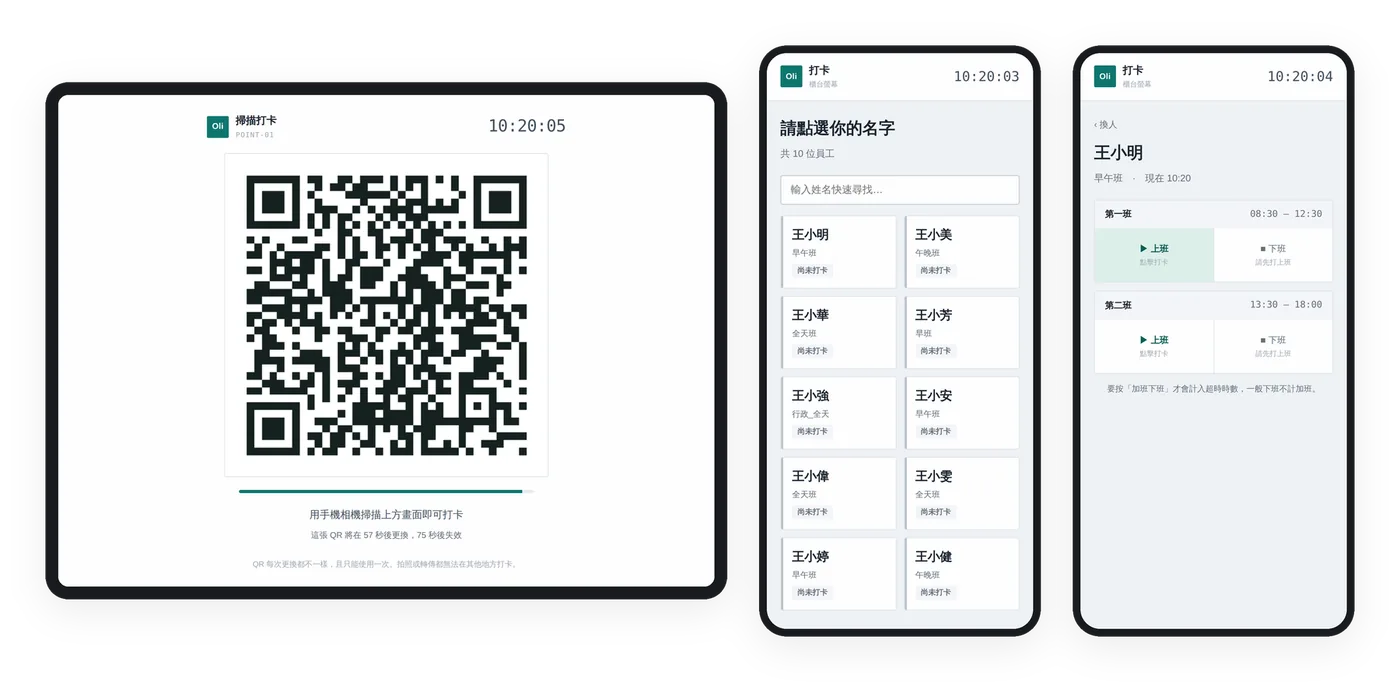
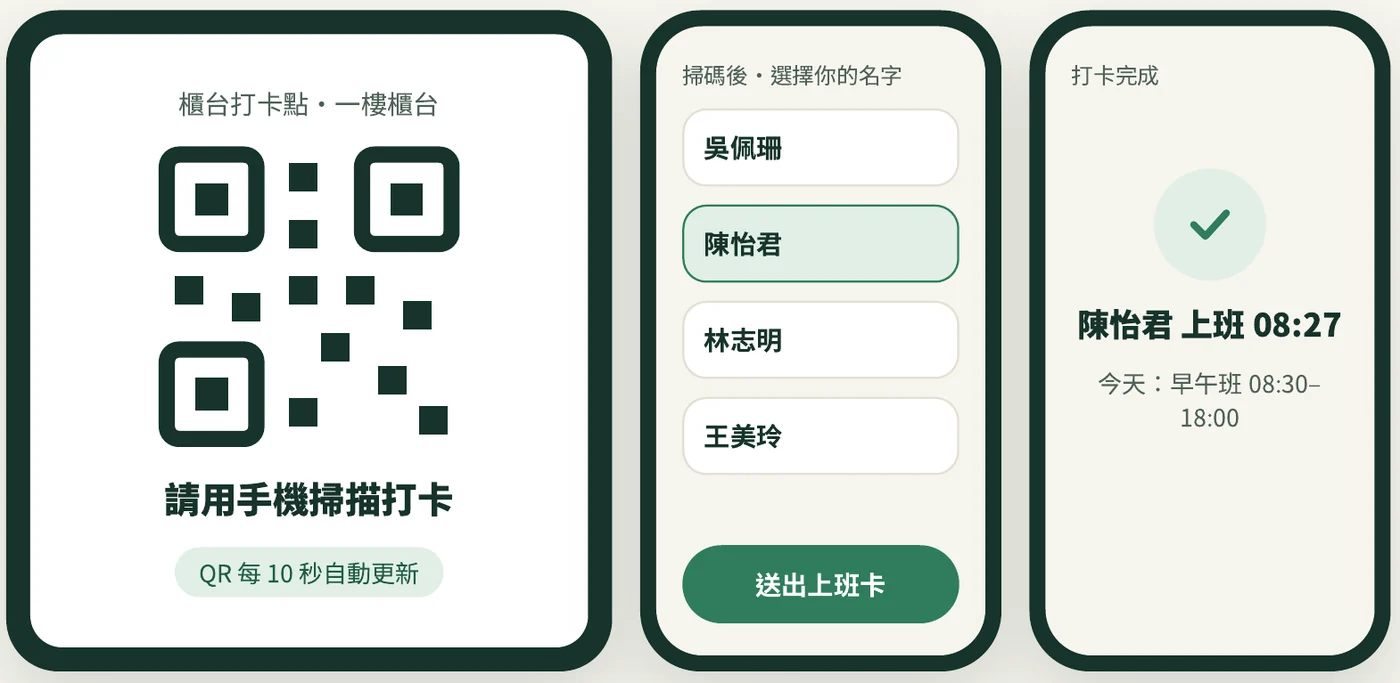
考勤頁改版對齊新介面：總覽、QR 打卡（每 10 秒）、請假加班異常、三診週表、員工手機；月結三步；截圖全部換成新版畫面；首頁相關文案同步
Claude-Session: https://claude.ai/code/session_01JJ9BNjGdWpK4NeKE6jUSjR

diff --git a/attendance.html b/attendance.html
@@ -3,14 +3,14 @@
 <head>
 <meta charset="utf-8">
 <meta name="viewport" content="width=device-width, initial-scale=1">
-<title>Oli考勤管理系統｜診所排班、打卡、請假、薪資一套搞定｜Olimedi 奧里</title>
-<meta name="description" content="專為醫療院所設計的考勤管理系統。早午晚診排班、手機 QR 打卡、請假加班、每月薪資，在同一個系統完成。加 LINE 預約免費展示。">
+<title>Oli考勤管理系統｜診所三診排班、QR 打卡、請假加班簽核、自動計薪｜Olimedi 奧里</title>
+<meta name="description" content="醫療院所雲端考勤系統：早午晚三診一週一張表排班、櫃台 QR 打卡免設備、請假加班線上簽核、異常集中處理，月底三步完成月結，薪資單每一行看得到算式。加 LINE 預約免費展示。">
 <link rel="canonical" href="https://olimedi.com/attendance.html">
 <link rel="icon" href="/favicon.svg" type="image/svg+xml">
 <meta property="og:type" content="website">
 <meta property="og:site_name" content="Olimedi 奧里醫療資訊">
-<meta property="og:title" content="Oli考勤管理系統｜診所排班、打卡、請假、薪資一套搞定｜Olimedi 奧里">
-<meta property="og:description" content="專為醫療院所設計的考勤管理系統。早午晚診排班、手機 QR 打卡、請假加班、每月薪資，在同一個系統完成。加 LINE 預約免費展示。">
+<meta property="og:title" content="Oli考勤管理系統｜診所三診排班、QR 打卡、請假加班簽核、自動計薪｜Olimedi 奧里">
+<meta property="og:description" content="醫療院所雲端考勤系統：早午晚三診一週一張表排班、櫃台 QR 打卡免設備、請假加班線上簽核、異常集中處理，月底三步完成月結，薪資單每一行看得到算式。加 LINE 預約免費展示。">
 <meta property="og:url" content="https://olimedi.com/attendance.html">
 <meta property="og:image" content="https://olimedi.com/img/og.jpg">
 <meta property="og:image:width" content="1200">
@@ -22,7 +22,7 @@
 <link rel="preconnect" href="https://fonts.gstatic.com" crossorigin>
 <link href="https://fonts.googleapis.com/css2?family=Plus+Jakarta+Sans:wght@700;800&family=Noto+Sans+TC:wght@400;500;700;900&display=swap" rel="stylesheet">
 <link rel="stylesheet" href="/style.css?v=99143536">
-<script type="application/ld+json">{"@context": "https://schema.org", "@type": "SoftwareApplication", "name": "Oli 考勤管理系統", "applicationCategory": "BusinessApplication", "operatingSystem": "Web", "description": "專為醫療院所設計的考勤管理系統。早午晚診排班、手機 QR 打卡、請假加班、每月薪資，在同一個系統完成。加 LINE 預約免費展示。", "url": "https://olimedi.com/attendance.html", "image": "https://olimedi.com/img/att-hero.webp", "publisher": {"@type": "Organization", "name": "Olimedi 奧里醫療資訊"}}</script>
+<script type="application/ld+json">{"@context": "https://schema.org", "@type": "SoftwareApplication", "name": "Oli 考勤管理系統", "applicationCategory": "BusinessApplication", "operatingSystem": "Web", "description": "醫療院所雲端考勤系統：早午晚三診一週一張表排班、櫃台 QR 打卡免設備、請假加班線上簽核、異常集中處理，月底三步完成月結，薪資單每一行看得到算式。加 LINE 預約免費展示。", "url": "https://olimedi.com/attendance.html", "image": "https://olimedi.com/img/att-hero.webp", "publisher": {"@type": "Organization", "name": "Olimedi 奧里醫療資訊"}}</script>
 <script type="application/ld+json">{"@context": "https://schema.org", "@type": "BreadcrumbList", "itemListElement": [{"@type": "ListItem", "position": 1, "name": "首頁", "item": "https://olimedi.com/"}, {"@type": "ListItem", "position": 2, "name": "Oli 考勤管理系統", "item": "https://olimedi.com/attendance.html"}]}</script>
 </head>
 <body>
@@ -37,18 +37,18 @@
 <div>
 <p class="crumb"><a href="/">首頁</a> / Oli 考勤管理系統</p>
 <p class="eyebrow">OLI 考勤管理系統</p>
-<h1><span style="white-space:nowrap">排班、打卡、薪資，</span><br><em>一套搞定</em>。</h1>
-<p class="lead">專為診所設計。從早午晚診排班、手機打卡、請假加班，到每月薪資，月底結算不用再對三份表。</p>
+<h1><span style="white-space:nowrap">月底結薪，</span><br><em>不再加班</em>。</h1>
+<p class="lead">早午晚三診排班、櫃台 QR 打卡、請假加班線上簽核，月底依診所設定自動算好薪資，每一行都看得到怎麼算。</p>
 <div class="cta-row"><a class="btn btn-line" href="https://line.me/R/ti/p/@336appfx" target="_blank" rel="noopener"><img class="av" src="/img/oliver.svg" alt="" width="32" height="32">問 Oliver・預約免費展示</a><a class="btn btn-ghost" href="#day">看它的一天 ↓</a></div>
-<div class="trust"><span>不用買打卡鐘</span><span>不用安裝 App</span><span>每間診所獨立資料庫</span></div>
+<div class="trust"><span>不用買打卡鐘</span><span>電腦、平板、手機免安裝</span><span>一般工時與四週變形工時</span></div>
 </div>
-<div class="day"><div class="sticker s2">今天 0 人忘記打卡</div><a class="dcard" href="#day"><div class="t">08:30<small>開診前</small></div><div><h4>12 位員工全部掃碼到班</h4><p>QR 每 60 秒換一張，拍照轉傳沒用。</p></div><div class="thumb"><img src="/img/att-qr.webp" alt="" loading="lazy"></div></a><a class="dcard" href="#day"><div class="t">10:15<small>診中</small></div><div><h4>小美申請下週三調班</h4><p>主管手機一鍵核准，班表同步更新。</p></div><div class="thumb"><img src="/img/att-phones.webp" alt="" loading="lazy"></div></a><a class="dcard" href="#day"><div class="t">20:00<small>排班日</small></div><div><h4>12 月班表草稿已產生</h4><p>每診人數不足的格子標紅，微調就好。</p></div><div class="thumb"><img src="/img/att-auto.webp" alt="" loading="lazy"></div></a><a class="dcard done" href="#day"><div class="t">月底<small>結算日</small></div><div><h4>薪資一鍵算好</h4><p>加班、請假、勞健保自動帶入。</p></div><div class="thumb"><img src="/img/att-pay.webp" alt="" loading="lazy"></div></a><img class="oliver-peek" src="/img/oliver/oliver-tablet.svg" alt="Oliver" width="170" height="263"><div class="sticker s1">✓ 班表已發佈</div></div>
+<div class="day"><div class="sticker s2">今天有 3 件事等你處理</div><a class="dcard" href="#day"><div class="t">08:27<small>上班</small></div><div><h4>陳怡君掃碼打卡</h4><p>櫃台 QR 每 10 秒更新，拍照轉傳沒用。</p></div><div class="thumb"><img src="/img/att-qr.webp" alt="" loading="lazy"></div></a><a class="dcard" href="#day"><div class="t">10:15<small>診中</small></div><div><h4>特休申請待核准</h4><p>核准前先看當天早診人力與特休餘額。</p></div><div class="thumb"><img src="/img/att-approve.webp" alt="" loading="lazy"></div></a><a class="dcard" href="#day"><div class="t">18:30<small>下診</small></div><div><h4>林志明缺下班卡</h4><p>待辦旁一鍵補 18:00 下班卡。</p></div><div class="thumb"><img src="/img/att-dash.webp" alt="" loading="lazy"></div></a><a class="dcard done" href="#day"><div class="t">月底<small>結算日</small></div><div><h4>11 月薪資已鎖定</h4><p>統計、檢查、鎖定三步完成。</p></div><div class="thumb"><img src="/img/att-pay.webp" alt="" loading="lazy"></div></a><img class="oliver-peek" src="/img/oliver/oliver-tablet.svg" alt="Oliver" width="170" height="263"><div class="sticker s1">✓ 11 月已鎖定發薪</div></div>
 </div></section>
 <section id="day"><div class="wrap">
 <div class="center" style="margin-bottom:72px"><p class="eyebrow">A DAY WITH OLI </p><h2>Oli 考勤管理系統的一天</h2><p class="sub" style="margin:0 auto">畫面為系統示意，診所名稱與資料皆為範例。實際功能以展示及合約內容為準。</p></div>
-<div class="tline"><div class="stop"><div class="txt"><span class="pm a">智能排班</span><h3><span class="when">晚上 20:00</span>設好人力需求，整月班表自動排</h3><p>設定每一診最少需要幾個人，系統依員工可做的崗位、休診日和已核准的請假，自動排出整個月的班表，再微調就好。</p><ul class=check><li>早午晚診分開排</li><li>工時規定排班當下就提醒</li><li>四週變形工時也能排</li></ul></div><div class="clock">20:00<small>排班日</small></div><div class="pic"><img src="/img/att-auto.webp" alt="設好人力需求，整月班表自動排" loading="lazy"></div></div><div class="stop alt"><div class="txt"><span class="pm a">手機打卡</span><h3><span class="when">早上 08:30</span>手機掃 QR 打卡，拍照轉傳難代打</h3><p>櫃台平板顯示打卡 QR，每 60 秒換一張。員工用自己的手機掃描、點名字就完成。不用買打卡鐘，也不用裝 App。</p><ul class=check><li>QR 定時更換、單次有效</li><li>可開啟自拍存證</li><li>遲到、忘打卡自動列成待處理</li></ul></div><div class="clock">08:30<small>開診前</small></div><div class="pic"><img src="/img/att-qr.webp" alt="手機掃 QR 打卡，拍照轉傳難代打" loading="lazy"></div></div><div class="stop"><div class="txt"><span class="pm a">員工自助</span><h3><span class="when">隨時</span>員工用手機看自己的班表與薪資單</h3><p>員工登入後只看得到自己的資料：本月班表、出勤紀錄、薪資單，薪資單可以線上簽收。主管不用再一個一個回答「我這個月排幾天？」</p><ul class=check><li>手機申請請假、調班</li><li>特休餘額自己看</li><li>薪資單線上簽收</li></ul></div><div class="clock">隨時<small>員工手機</small></div><div class="pic phone"><img src="/img/att-phones.webp" alt="員工用手機看自己的班表與薪資單" loading="lazy"></div></div></div>
+<div class="tline"><div class="stop"><div class="txt"><span class="pm a">總覽</span><h3><span class="when">早上 08:00</span>打開就知道今天要做什麼</h3><p>總覽用一句話告訴你今天有幾件事；早、午、晚診各排到幾人、最低要幾人一眼看到。補卡、核准請假、核定加班，按鈕就在待辦旁邊。</p><ul class=check><li>橘色＝需要你處理，綠色＝已完成</li><li>三診人力卡，人手不足立刻看到</li><li>月結進度五步：排班→打卡→異常處理→統計→鎖定發薪</li></ul></div><div class="clock">08:00<small>開診前</small></div><div class="pic"><img src="/img/att-dash.webp" alt="打開就知道今天要做什麼" loading="lazy"></div></div><div class="stop alt"><div class="txt"><span class="pm a">QR 打卡</span><h3><span class="when">早上 08:27</span>不用買打卡鐘，員工用手機掃就好</h3><p>櫃台平板打開打卡點網址就顯示動態 QR，員工用自己的手機掃碼、選名字、送出。QR 預設每 10 秒換一張，拍照傳給別人也沒用。</p><ul class=check><li>更新頻率可調，也可列印固定 QR 貼牆上</li><li>需要時打開自拍，打卡同時留照片</li><li>多個打卡點各自啟用、停用</li></ul></div><div class="clock">08:27<small>上班</small></div><div class="pic"><img src="/img/att-qr.webp" alt="不用買打卡鐘，員工用手機掃就好" loading="lazy"></div></div><div class="stop"><div class="txt"><span class="pm a">請假、加班與異常</span><h3><span class="when">中午 12:30</span>該簽的、該補的，按一下就處理完</h3><p>員工用手機請假、預排休，核准前就看到當天人力與特休餘額。缺卡、早退、例假出勤自動列出，按鈕直接帶建議時間。</p><ul class=check><li>加班排定與實際並排，可選加班費或換補休</li><li>異常依種類分組，一鍵補卡或核准</li><li>一次核定一個人的整月加班</li></ul></div><div class="clock">12:30<small>午休</small></div><div class="pic"><img src="/img/att-approve.webp" alt="該簽的、該補的，按一下就處理完" loading="lazy"></div></div><div class="stop alt"><div class="txt"><span class="pm a">三診排班</span><h3><span class="when">晚上 20:00</span>早午晚三診，一週一張表排完</h3><p>列是員工、欄是週一到週日，每格分早午晚三診，崗位用色條標示；最下面一列直接告訴你每診排到幾人、最低要幾人。</p><ul class=check><li>點格子就改，不用開彈窗</li><li>智能排班，排好一週可複製到整個月</li><li>四週變形工時週期超過 160 小時會提醒</li></ul></div><div class="clock">20:00<small>排班日</small></div><div class="pic"><img src="/img/att-auto.webp" alt="早午晚三診，一週一張表排完" loading="lazy"></div></div><div class="stop"><div class="txt"><span class="pm a">員工手機</span><h3><span class="when">隨時</span>員工自己查，行政少回答一半問題</h3><p>員工用手機看班表、出勤與薪資單，請假也自己申請。特休通知書、加退保申報、離職結算預覽、出勤統計 CSV 也幫你備好。</p><ul class=check><li>第一次登入要求更換密碼</li><li>依角色開放功能，保留操作紀錄</li><li>一般工時與四週變形工時都支援</li></ul></div><div class="clock">隨時<small>員工自查</small></div><div class="pic"><img src="/img/att-phones.webp" alt="員工自己查，行政少回答一半問題" loading="lazy"></div></div></div>
 </div></section>
-<section style="padding-top:0"><div class="wrap"><div class="month"><div><span class="pm">月底 · 結算日</span><h2>每月薪資自動試算，<br>計算過程看得到</h2><p>加班、請假、勞健保、勞退提繳依診所設定自動試算，點開每個人就看到計算式，確認後再結算。工資清冊、轉帳清冊一鍵匯出。</p><div class="ticks"><div><b>1 鍵</b>整月薪資結算</div><div><b>可追</b>每一筆計算式</div><div><b>Excel</b>工資與轉帳清冊</div><div><b>先核</b>加班核定再計薪</div></div></div><img src="/img/att-pay.webp" alt="每月薪資自動試算，<br>計算過程看得到" loading="lazy"></div></div></section>
+<section style="padding-top:0"><div class="wrap"><div class="month"><div><span class="pm">月底 · 結算日</span><h2>三步完成月結，<br>每一塊錢都看得懂</h2><p>系統依打卡、請假、加班自動算好薪資；有異常未處理會提醒你，鎖定後不能再改，解鎖要寫原因。員工問「這筆怎麼算的」，點開那一行就有算式。</p><div class="ticks"><div><b>3 步</b>統計 → 檢查 → 鎖定</div><div><b>算式</b>薪資單每一行點開看</div><div><b>折算</b>月中到職依在職天數</div><div><b>自訂</b>交通津貼等薪項</div></div></div><img src="/img/att-pay.webp" alt="三步完成月結，<br>每一塊錢都看得懂" loading="lazy"></div></div></section>
 <section class="alt" id="how"><div class="wrap center">
 <p class="eyebrow">HOW IT WORKS</p>
 <h2>三步驟，看看 Oli 適不適合你的診所</h2>

diff --git a/index.html b/index.html
@@ -48,9 +48,9 @@
 
 <section id="day" style="padding-top:40px"><div class="wrap">
 <div class="center" style="margin-bottom:72px"><p class="eyebrow">A DAY AT THE CLINIC</p><h2>跟著診所的一天，看 Oli 在哪裡幫上忙</h2><p class="sub" style="margin:0 auto">每個時間點都是一件真的會發生的瑣事。畫面為系統示意，診所名稱與資料皆為範例。</p></div>
-<div class="tline"><div class="stop"><div class="txt"><span class="pm a">OLI 考勤管理系統</span><h3><span class="when">早上 08:30</span>打卡不用排隊，也不用打卡鐘</h3><p>櫃台平板顯示 QR，員工用自己的手機掃碼就到班。QR 定時更換，拍照轉傳也沒用。</p><ul class=check><li>出勤紀錄自動保存</li><li>遲到、忘打卡列成待處理清單</li><li>手機就能看自己的班表與時數</li></ul></div><div class="clock">08:30<small>開診前</small></div><div class="pic"><img src="/img/att-qr.webp" alt="打卡不用排隊，也不用打卡鐘" loading="lazy"></div></div><div class="stop alt"><div class="txt"><span class="pm b">OLI 庫存管理系統</span><h3><span class="when">中午 12:10</span>點貨 5 分鐘，效期自動盯</h3><p>依每日用量算安全庫存，低於安全線的排最前面；30 天內到期自動標色，先到期先用。</p><ul class=check><li>手機掃條碼入庫，不用一字一字打</li><li>ABC 分級，高價品項每週盤、低價每季盤</li><li>叫貨單依消耗量自動產生</li></ul></div><div class="clock">12:10<small>午休</small></div><div class="pic phone"><img src="/img/mat-mobile.webp" alt="點貨 5 分鐘，效期自動盯" loading="lazy"></div></div><div class="stop"><div class="txt"><span class="pm a">OLI 考勤管理系統</span><h3><span class="when">傍晚 18:40</span>下個月班表，一個晚上變十分鐘</h3><p>設好每診最少人數、每人工時上限與休假，系統先排出整月草稿；四週變形工時也能排。</p><ul class=check><li>每診人數不足自動標紅</li><li>員工手機看班表、申請調班</li><li>班表一發佈，大家同步</li></ul></div><div class="clock">18:40<small>晚診前</small></div><div class="pic"><img src="/img/att-auto.webp" alt="下個月班表，一個晚上變十分鐘" loading="lazy"></div></div></div>
+<div class="tline"><div class="stop"><div class="txt"><span class="pm a">OLI 考勤管理系統</span><h3><span class="when">早上 08:30</span>打卡不用排隊，也不用打卡鐘</h3><p>櫃台平板顯示 QR，員工用自己的手機掃碼就到班。QR 定時更換，拍照轉傳也沒用。</p><ul class=check><li>出勤紀錄自動保存</li><li>遲到、忘打卡列成待處理清單</li><li>手機就能看自己的班表與時數</li></ul></div><div class="clock">08:30<small>開診前</small></div><div class="pic"><img src="/img/att-qr.webp" alt="打卡不用排隊，也不用打卡鐘" loading="lazy"></div></div><div class="stop alt"><div class="txt"><span class="pm b">OLI 庫存管理系統</span><h3><span class="when">中午 12:10</span>點貨 5 分鐘，效期自動盯</h3><p>依每日用量算安全庫存，低於安全線的排最前面；30 天內到期自動標色，先到期先用。</p><ul class=check><li>手機掃條碼入庫，不用一字一字打</li><li>ABC 分級，高價品項每週盤、低價每季盤</li><li>叫貨單依消耗量自動產生</li></ul></div><div class="clock">12:10<small>午休</small></div><div class="pic phone"><img src="/img/mat-mobile.webp" alt="點貨 5 分鐘，效期自動盯" loading="lazy"></div></div><div class="stop"><div class="txt"><span class="pm a">OLI 考勤管理系統</span><h3><span class="when">傍晚 18:40</span>下個月班表，一個晚上變十分鐘</h3><p>設好每診最少人數、每人工時上限與休假，系統先排出整月草稿；四週變形工時也能排。</p><ul class=check><li>每診排到幾人、最低幾人一目了然</li><li>員工手機看班表、申請請假</li><li>班表一發佈，大家同步</li></ul></div><div class="clock">18:40<small>晚診前</small></div><div class="pic"><img src="/img/att-auto.webp" alt="下個月班表，一個晚上變十分鐘" loading="lazy"></div></div></div>
 </div></section>
-<section style="padding-top:0"><div class="wrap"><div class="month"><div><span class="pm">月底 · 結算日</span><h2>算薪水，<br>不用再熬到半夜</h2><p>出勤、請假、加班與津貼自動帶入；忘打卡與未核定加班先列成清單，處理完再結算。報表匯出 Excel，會計直接用。</p><div class="ticks"><div><b>1 鍵</b>整月薪資結算</div><div><b>Excel</b>出勤與薪資匯出</div><div><b>0 份</b>需要人工核對的表</div><div><b>每月</b>人事成本一眼看</div></div></div><img src="/img/att-pay.webp" alt="算薪水，<br>不用再熬到半夜" loading="lazy"></div></div></section>
+<section style="padding-top:0"><div class="wrap"><div class="month"><div><span class="pm">月底 · 結算日</span><h2>算薪水，<br>不用再熬到半夜</h2><p>出勤、請假、加班自動帶入；缺卡與未核定加班先列成清單，處理完再統計、檢查、鎖定。薪資單每一行都看得到怎麼算。</p><div class="ticks"><div><b>3 步</b>統計 → 檢查 → 鎖定</div><div><b>算式</b>薪資單每一行看得到</div><div><b>CSV</b>出勤統計一鍵下載</div><div><b>鎖定</b>解鎖要寫原因</div></div></div><img src="/img/att-pay.webp" alt="算薪水，<br>不用再熬到半夜" loading="lazy"></div></div></section>
 
 <section class="alt"><div class="wrap"><div class="svc-strip">
 <div><p class="eyebrow">CLINIC LAUNCH</p><h2 style="font-size:clamp(26px,3.2vw,36px)">要開新診所？<br>開業代辦從地點評估到健保特約一條線跑完</h2><p class="sub" style="margin-bottom:22px">你準備委託書與資料，公會送件、衛生局現勘、執照、憑證、統編、勞健保、醫療網到健保特約由我們跑，每週回報進度。人事與耗材制度可一起建好。</p><div class="cta-row"><a class="btn btn-ink" href="/services.html">看開業代辦服務</a><a class="btn btn-line" href="https://line.me/R/ti/p/@336appfx" target="_blank" rel="noopener"><img class="av" src="/img/oliver.svg" alt="" width="32" height="32">問 Oliver・索取報價</a></div></div>

diff --git a/_build/build.py b/_build/build.py
@@ -173,9 +173,9 @@ home=f'''
 <div class="center" style="margin-bottom:72px"><p class="eyebrow">A DAY AT THE CLINIC</p><h2>跟著診所的一天，看 Oli 在哪裡幫上忙</h2><p class="sub" style="margin:0 auto">每個時間點都是一件真的會發生的瑣事。畫面為系統示意，診所名稱與資料皆為範例。</p></div>
 {STOPS([("OLI 考勤管理系統","a","早上 08:30","開診前","打卡不用排隊，也不用打卡鐘","櫃台平板顯示 QR，員工用自己的手機掃碼就到班。QR 定時更換，拍照轉傳也沒用。",["出勤紀錄自動保存","遲到、忘打卡列成待處理清單","手機就能看自己的班表與時數"],"att-qr"),
 ("OLI 庫存管理系統","b","中午 12:10","午休","點貨 5 分鐘，效期自動盯","依每日用量算安全庫存，低於安全線的排最前面；30 天內到期自動標色，先到期先用。",["手機掃條碼入庫，不用一字一字打","ABC 分級，高價品項每週盤、低價每季盤","叫貨單依消耗量自動產生"],"phone:mat-mobile"),
-("OLI 考勤管理系統","a","傍晚 18:40","晚診前","下個月班表，一個晚上變十分鐘","設好每診最少人數、每人工時上限與休假，系統先排出整月草稿；四週變形工時也能排。",["每診人數不足自動標紅","員工手機看班表、申請調班","班表一發佈，大家同步"],"att-auto")])}
+("OLI 考勤管理系統","a","傍晚 18:40","晚診前","下個月班表，一個晚上變十分鐘","設好每診最少人數、每人工時上限與休假，系統先排出整月草稿；四週變形工時也能排。",["每診排到幾人、最低幾人一目了然","員工手機看班表、申請請假","班表一發佈，大家同步"],"att-auto")])}
 </div></section>
-{MONTH("月底 · 結算日","算薪水，<br>不用再熬到半夜","出勤、請假、加班與津貼自動帶入；忘打卡與未核定加班先列成清單，處理完再結算。報表匯出 Excel，會計直接用。",[("1 鍵","整月薪資結算"),("Excel","出勤與薪資匯出"),("0 份","需要人工核對的表"),("每月","人事成本一眼看")],"att-pay")}
+{MONTH("月底 · 結算日","算薪水，<br>不用再熬到半夜","出勤、請假、加班自動帶入；缺卡與未核定加班先列成清單，處理完再統計、檢查、鎖定。薪資單每一行都看得到怎麼算。",[("3 步","統計 → 檢查 → 鎖定"),("算式","薪資單每一行看得到"),("CSV","出勤統計一鍵下載"),("鎖定","解鎖要寫原因")],"att-pay")}
 
 <section class="alt"><div class="wrap"><div class="svc-strip">
 <div><p class="eyebrow">CLINIC LAUNCH</p><h2 style="font-size:clamp(26px,3.2vw,36px)">要開新診所？<br>開業代辦從地點評估到健保特約一條線跑完</h2><p class="sub" style="margin-bottom:22px">你準備委託書與資料，公會送件、衛生局現勘、執照、憑證、統編、勞健保、醫療網到健保特約由我們跑，每週回報進度。人事與耗材制度可一起建好。</p><div class="cta-row"><a class="btn btn-ink" href="services.html">看開業代辦服務</a>{cta("問 Oliver・索取報價")}</div></div>
@@ -221,19 +221,21 @@ def prod(fn,name,title,desc,eyebrow,h1,lead,hero_k,hero_alt,stops,month,trust,ot
     open(fn,"w").write(page(fn,title,desc,body,fn,[app,bc]))
 
 prod("attendance.html","考勤管理系統",
- "Oli考勤管理系統｜診所排班、打卡、請假、薪資一套搞定｜Olimedi 奧里",
- "專為醫療院所設計的考勤管理系統。早午晚診排班、手機 QR 打卡、請假加班、每月薪資，在同一個系統完成。加 LINE 預約免費展示。",
+ "Oli考勤管理系統｜診所三診排班、QR 打卡、請假加班簽核、自動計薪｜Olimedi 奧里",
+ "醫療院所雲端考勤系統：早午晚三診一週一張表排班、櫃台 QR 打卡免設備、請假加班線上簽核、異常集中處理，月底三步完成月結，薪資單每一行看得到算式。加 LINE 預約免費展示。",
  "OLI 考勤管理系統",
- "<span style=\"white-space:nowrap\">排班、打卡、薪資，</span><br><em>一套搞定</em>。",
- "專為診所設計。從早午晚診排班、手機打卡、請假加班，到每月薪資，月底結算不用再對三份表。",
- "att-hero","Oli 考勤管理系統的總覽畫面與員工手機上的我的班表",
- [("智能排班","a","晚上 20:00","排班日","設好人力需求，整月班表自動排","設定每一診最少需要幾個人，系統依員工可做的崗位、休診日和已核准的請假，自動排出整個月的班表，再微調就好。",["早午晚診分開排","工時規定排班當下就提醒","四週變形工時也能排"],"att-auto"),
-  ("手機打卡","a","早上 08:30","開診前","手機掃 QR 打卡，拍照轉傳難代打","櫃台平板顯示打卡 QR，每 60 秒換一張。員工用自己的手機掃描、點名字就完成。不用買打卡鐘，也不用裝 App。",["QR 定時更換、單次有效","可開啟自拍存證","遲到、忘打卡自動列成待處理"],"att-qr"),
-  ("員工自助","a","隨時","員工手機","員工用手機看自己的班表與薪資單","員工登入後只看得到自己的資料：本月班表、出勤紀錄、薪資單，薪資單可以線上簽收。主管不用再一個一個回答「我這個月排幾天？」",["手機申請請假、調班","特休餘額自己看","薪資單線上簽收"],"phone:att-phones")],
- ("月底 · 結算日","每月薪資自動試算，<br>計算過程看得到","加班、請假、勞健保、勞退提繳依診所設定自動試算，點開每個人就看到計算式，確認後再結算。工資清冊、轉帳清冊一鍵匯出。",[("1 鍵","整月薪資結算"),("可追","每一筆計算式"),("Excel","工資與轉帳清冊"),("先核","加班核定再計薪")],"att-pay"),
- ["不用買打卡鐘","不用安裝 App","每間診所獨立資料庫"],("庫存管理系統","materials.html"),
- [("08:30","開診前","12 位員工全部掃碼到班","QR 每 60 秒換一張，拍照轉傳沒用。","att-qr","#day",False),("10:15","診中","小美申請下週三調班","主管手機一鍵核准，班表同步更新。","att-phones","#day",False),("20:00","排班日","12 月班表草稿已產生","每診人數不足的格子標紅，微調就好。","att-auto","#day",False),("月底","結算日","薪資一鍵算好","加班、請假、勞健保自動帶入。","att-pay","#day",True)],
- ("今天 0 人忘記打卡","✓ 班表已發佈"),"a")
+ "<span style=\"white-space:nowrap\">月底結薪，</span><br><em>不再加班</em>。",
+ "早午晚三診排班、櫃台 QR 打卡、請假加班線上簽核，月底依診所設定自動算好薪資，每一行都看得到怎麼算。",
+ "att-hero","Oli 考勤管理系統的總覽畫面：今天有 2 件事等你處理、三診人力與月結進度，以及員工手機的我的今天",
+ [("總覽","a","早上 08:00","開診前","打開就知道今天要做什麼","總覽用一句話告訴你今天有幾件事；早、午、晚診各排到幾人、最低要幾人一眼看到。補卡、核准請假、核定加班，按鈕就在待辦旁邊。",["橘色＝需要你處理，綠色＝已完成","三診人力卡，人手不足立刻看到","月結進度五步：排班→打卡→異常處理→統計→鎖定發薪"],"att-dash"),
+  ("QR 打卡","a","早上 08:27","上班","不用買打卡鐘，員工用手機掃就好","櫃台平板打開打卡點網址就顯示動態 QR，員工用自己的手機掃碼、選名字、送出。QR 預設每 10 秒換一張，拍照傳給別人也沒用。",["更新頻率可調，也可列印固定 QR 貼牆上","需要時打開自拍，打卡同時留照片","多個打卡點各自啟用、停用"],"att-qr"),
+  ("請假、加班與異常","a","中午 12:30","午休","該簽的、該補的，按一下就處理完","員工用手機請假、預排休，核准前就看到當天人力與特休餘額。缺卡、早退、例假出勤自動列出，按鈕直接帶建議時間。",["加班排定與實際並排，可選加班費或換補休","異常依種類分組，一鍵補卡或核准","一次核定一個人的整月加班"],"att-approve"),
+  ("三診排班","a","晚上 20:00","排班日","早午晚三診，一週一張表排完","列是員工、欄是週一到週日，每格分早午晚三診，崗位用色條標示；最下面一列直接告訴你每診排到幾人、最低要幾人。",["點格子就改，不用開彈窗","智能排班，排好一週可複製到整個月","四週變形工時週期超過 160 小時會提醒"],"att-auto"),
+  ("員工手機","a","隨時","員工自查","員工自己查，行政少回答一半問題","員工用手機看班表、出勤與薪資單，請假也自己申請。特休通知書、加退保申報、離職結算預覽、出勤統計 CSV 也幫你備好。",["第一次登入要求更換密碼","依角色開放功能，保留操作紀錄","一般工時與四週變形工時都支援"],"att-phones")],
+ ("月底 · 結算日","三步完成月結，<br>每一塊錢都看得懂","系統依打卡、請假、加班自動算好薪資；有異常未處理會提醒你，鎖定後不能再改，解鎖要寫原因。員工問「這筆怎麼算的」，點開那一行就有算式。",[("3 步","統計 → 檢查 → 鎖定"),("算式","薪資單每一行點開看"),("折算","月中到職依在職天數"),("自訂","交通津貼等薪項")],"att-pay"),
+ ["不用買打卡鐘","電腦、平板、手機免安裝","一般工時與四週變形工時"],("庫存管理系統","materials.html"),
+ [("08:27","上班","陳怡君掃碼打卡","櫃台 QR 每 10 秒更新，拍照轉傳沒用。","att-qr","#day",False),("10:15","診中","特休申請待核准","核准前先看當天早診人力與特休餘額。","att-approve","#day",False),("18:30","下診","林志明缺下班卡","待辦旁一鍵補 18:00 下班卡。","att-dash","#day",False),("月底","結算日","11 月薪資已鎖定","統計、檢查、鎖定三步完成。","att-pay","#day",True)],
+ ("今天有 3 件事等你處理","✓ 11 月已鎖定發薪"),"a")
 
 phones=f'<div class="phones">{I("mat-scan","手機掃碼入庫，自動帶出醫材品名、批號與效期","")}{I("mat-mobile","手機版總覽：庫存不足品項與建議補貨","")}</div>'
 prod("materials.html","庫存管理系統",
